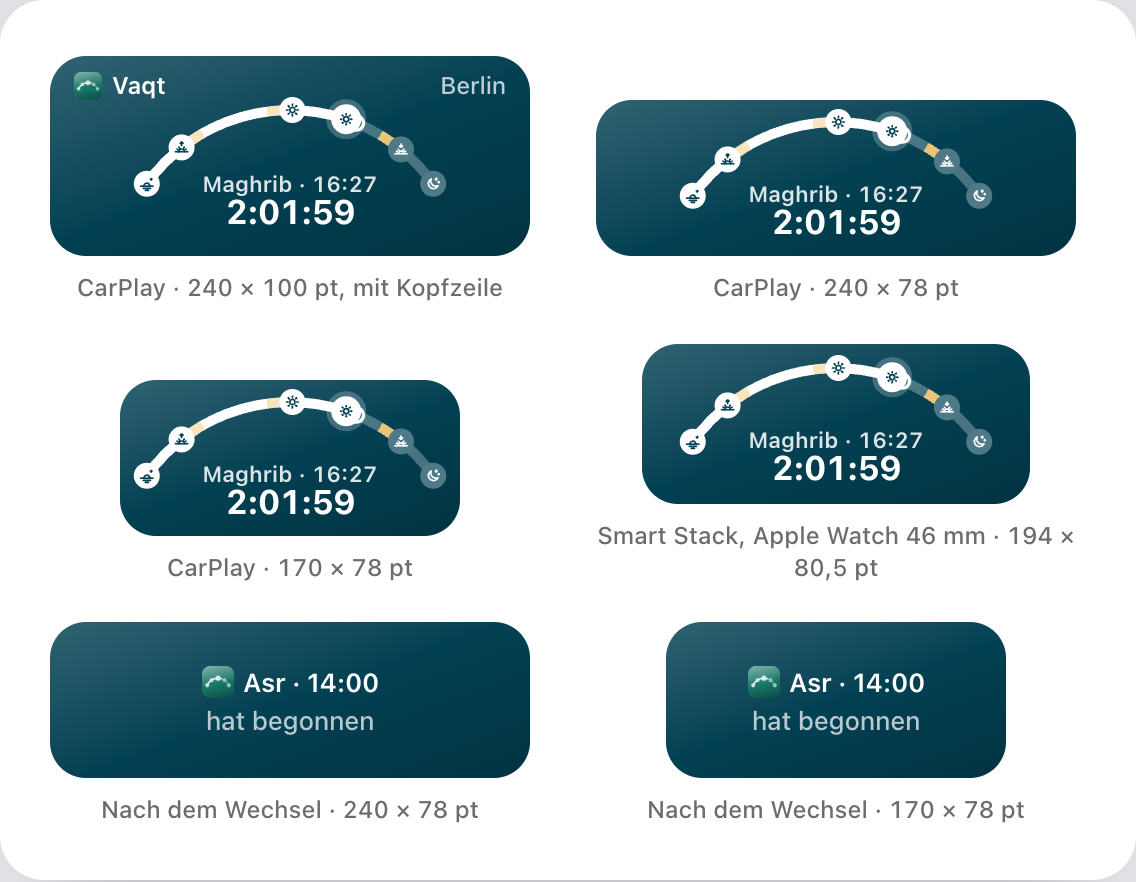
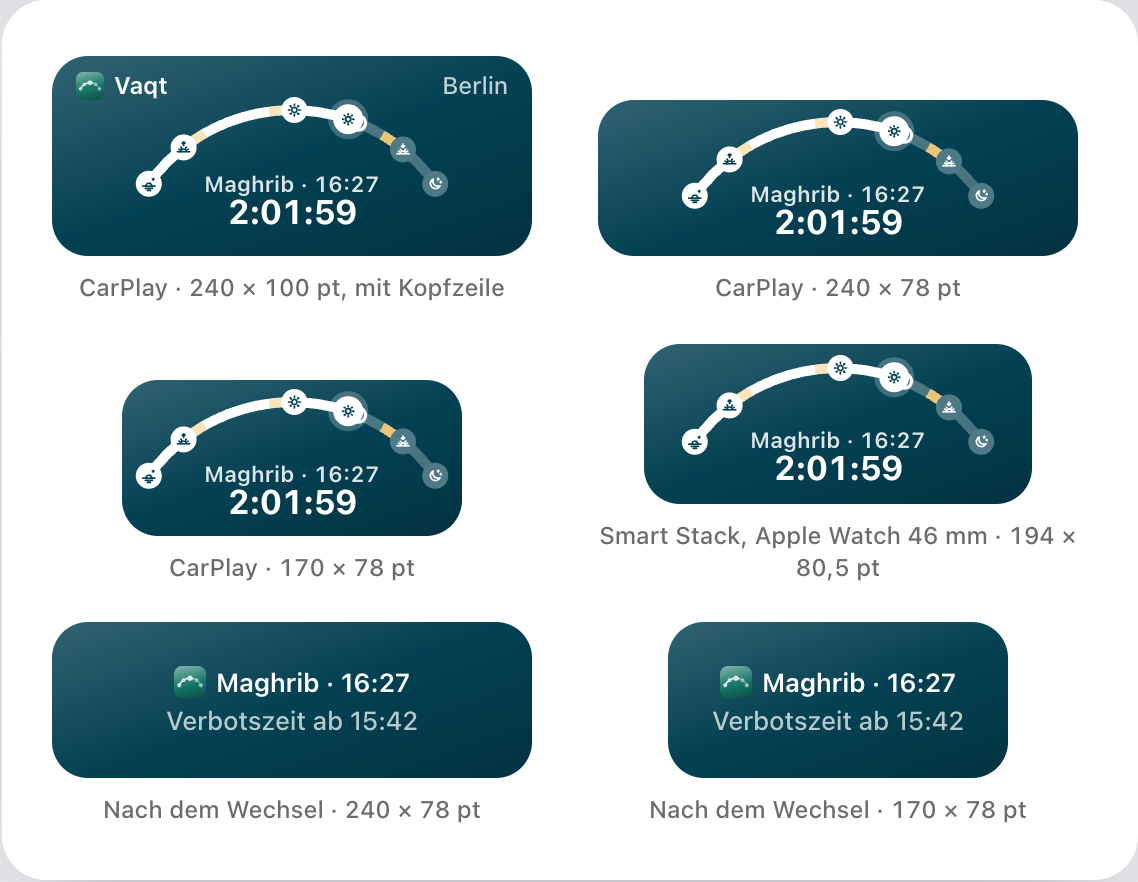
Phase 19: Prototyp – Live-Aktivität „klein“ nach dem Wechsel wie in der App
Die Beispiele „nach dem Wechsel“ auf der Tafel der Größen zeigen jetzt
dieselbe Aktivität wie darüber nach ihrem staleDate (um 14:25 der grüne
Teil mit „Verbotszeit ab 15:42“, um 16:05 die orange mit „hat begonnen“),
statt der vorigen. So lässt sich die App im Katalog damit abgleichen.
cp-40 bis cp-43 neu aufgenommen, INDEX.md angepasst.

diff --git a/design/prayer-times-prototype.html b/design/prayer-times-prototype.html
@@ -3416,14 +3416,14 @@ function laSmall(ph, size){
     <div class="las-arc">${arcHTML(ph, 'lasm', 'la')}<div class="acc-text"><div class="acc-name ${k && !head ? 'is-k' : ''}">${k && !head ? kt : `${t('p_' + nx.p)} · ${fmt(nx.at/60)}`}</div>
       <div class="acc-count" data-tick="cd">${cdDigital(ph.remaining)}</div></div></div></div>`;
 }
-/* Nach dem Wechsel (staleDate, § 10.3): Gebet · Uhrzeit und „hat begonnen“ bzw. beim grünen Teil vor einer Verbotszeit
-   „Verbotszeit ab …“ – zwei Zeilen, mittig */
+/* Dieselbe Aktivität nach ihrem Wechsel (staleDate, § 10.3): zwei Zeilen, mittig. Die grüne vor einer Verbotszeit endet zu
+   deren Beginn mit „Verbotszeit ab …“, sonst endet sie zu Gebetsbeginn mit „hat begonnen“; die orange bleibt orange. */
 function laSmallEnded(ph, size){
-  const [W, H] = LAS[size], kNow = activeKerahat(ph), pv = ph.prev;
-  const [p, at, right, orange] = kNow && kNow.id !== 'sunrise' ? [ph.next.p, ph.next.at/60, t('kerahatFrom',{a:fmt(kNow.a)}), false]
-    : [pv.p, pv.at/60, t('laBegan'), kerahatWins(ph.t).some(w => w.id !== 'sunrise' && Math.abs(w.b*60 - pv.at) < 90)];
-  return `<div class="las las-ended ${orange ? 'is-kerahat' : ''}" ${laAttr()} style="width:${W}px;height:${H}px" role="img" aria-label="${esc(t('p_' + p) + ' ' + fmt(at) + ', ' + right)}">
-    <span class="la-app">${appIconImg(16, 'ai-la', 'light')}<span>${t('p_' + p)} · ${fmt(at)}</span></span><span class="las-end">${right}</span></div>`;
+  const [W, H] = LAS[size], nx = ph.next, kNow = activeKerahat(ph), orange = !!kNow && kNow.id !== 'sunrise';
+  const kBefore = !kNow && S.kerahat ? kerahatWins(ph.t).find(w => w.id !== 'sunrise' && w.a*60 > ph.ns && Math.abs(w.b*60 - nx.at) < 90) : null;
+  const right = kBefore ? t('kerahatFrom',{a:fmt(kBefore.a)}) : t('laBegan');
+  return `<div class="las las-ended ${orange ? 'is-kerahat' : ''}" ${laAttr()} style="width:${W}px;height:${H}px" role="img" aria-label="${esc(t('p_' + nx.p) + ' ' + fmt(nx.at/60) + ', ' + right)}">
+    <span class="la-app">${appIconImg(16, 'ai-la', 'light')}<span>${t('p_' + nx.p)} · ${fmt(nx.at/60)}</span></span><span class="las-end">${right}</span></div>`;
 }
 
 /* --- CarPlay ohne eigene App --- */
@@ -3490,7 +3490,7 @@ function cwCarPlayHTML(){
         <div class="cp-card cp-media" aria-hidden="true"><i class="cp-art"></i><span class="cp-bars"><i></i><i></i></span><span class="cp-ctl">${ic('play',24)}</span></div></div>`)
     + cpFrame('cp-alert', 'CarPlay · Beginnt die Live-Aktivität, während eine andere App den Bildschirm füllt, erscheint sie unten als Hinweis', 'cp-full',
       `<div class="cp-map" aria-hidden="true">${cpMapSVG(true)}</div><div class="cp-note">${laSmall(ph, 'w')}</div>`)
-    + cwFrame('cp-sizes', 'Live-Aktivität „klein“ in allen Größen von Apple · dieselbe Ansicht in CarPlay und im Smart Stack der Uhr · unten nach dem Wechsel', 568, 440,
+    + cwFrame('cp-sizes', 'Live-Aktivität „klein“ in allen Größen von Apple · dieselbe Ansicht in CarPlay und im Smart Stack der Uhr · unten dieselbe Aktivität nach ihrem Wechsel', 568, 440,
       `<div class="cw-board"><div class="las-sizes">${['t', 'w', 'n', 'watch'].map(s => `<figure>${laSmall(ph, s)}<figcaption>${cap[s]}</figcaption></figure>`).join('')}
         ${['w', 'n'].map(s => `<figure>${laSmallEnded(ph, s)}<figcaption>Nach dem Wechsel · ${LAS[s].join(' × ')} pt</figcaption></figure>`).join('')}</div></div>`)
     + cwFrame('cp-small', 'Die kleinen Widgets in Originalgröße: oben mit Hintergrund (Home-Bildschirm), unten ohne (StandBy, CarPlay)', 436, 440, cwSmallHTML(ph))

diff --git a/design/screenshots/INDEX.md b/design/screenshots/INDEX.md
@@ -213,8 +213,8 @@ Aus der Ansicht „CarPlay“ des Prototyps (`scripts/capture-prototype cp-`), n
 | `carplay/cp-21-dashboard-standard.png` (+ `-dark`) | Same on the standard screen, Live Activity 240 × 100 with header |
 | `carplay/cp-22-dashboard-kerahat.png` | Dashboard in the prohibited time: the Live Activity orange |
 | `carplay/cp-30-alert.png` (+ `-dark`) | The Live Activity as a notice over another app (map) |
-| `carplay/cp-40-live-small.png` | Live Activity „small“ in all sizes: 240 × 100 (header), 240 × 78, 170 × 78, Smart Stack 194 × 80,5; below after the change (two lines) |
-| `carplay/cp-41-live-small-kerahat.png` | Same in the prohibited time: orange, „Verbotszeit bis 16:27“ in the arc (flat sizes) or the header; after the change „Verbotszeit ab 15:42“ |
+| `carplay/cp-40-live-small.png` | Live Activity „small“ in all sizes: 240 × 100 (header), 240 × 78, 170 × 78, Smart Stack 194 × 80,5; below the same activity after its change (two lines): the green part ends at the prohibited time, „Verbotszeit ab 15:42“ |
+| `carplay/cp-41-live-small-kerahat.png` | Same in the prohibited time: orange, „Verbotszeit bis 16:27“ in the arc (flat sizes) or the header; after the change orange with „hat begonnen“ |
 | `carplay/cp-42-live-small-{arc,mono,full-inverted,arc-inverted,mono-inverted,ocean}.png` | The board in the other styles of § 11.7 and in Ozean, full opacity |
 | `carplay/cp-43-live-small-kerahat-{arc,mono,full-inverted,arc-inverted,warm}.png` | Same in the prohibited time; `warm` = accent Orange, violet instead of orange |
 | `carplay/cp-50-small-widgets.png` (+ `-dark`) | The small widgets at 158 × 158: top with background (Home Screen) – „Nächstes Gebet“ as before, the new „Tagesbogen“; bottom without background (StandBy, CarPlay) |
